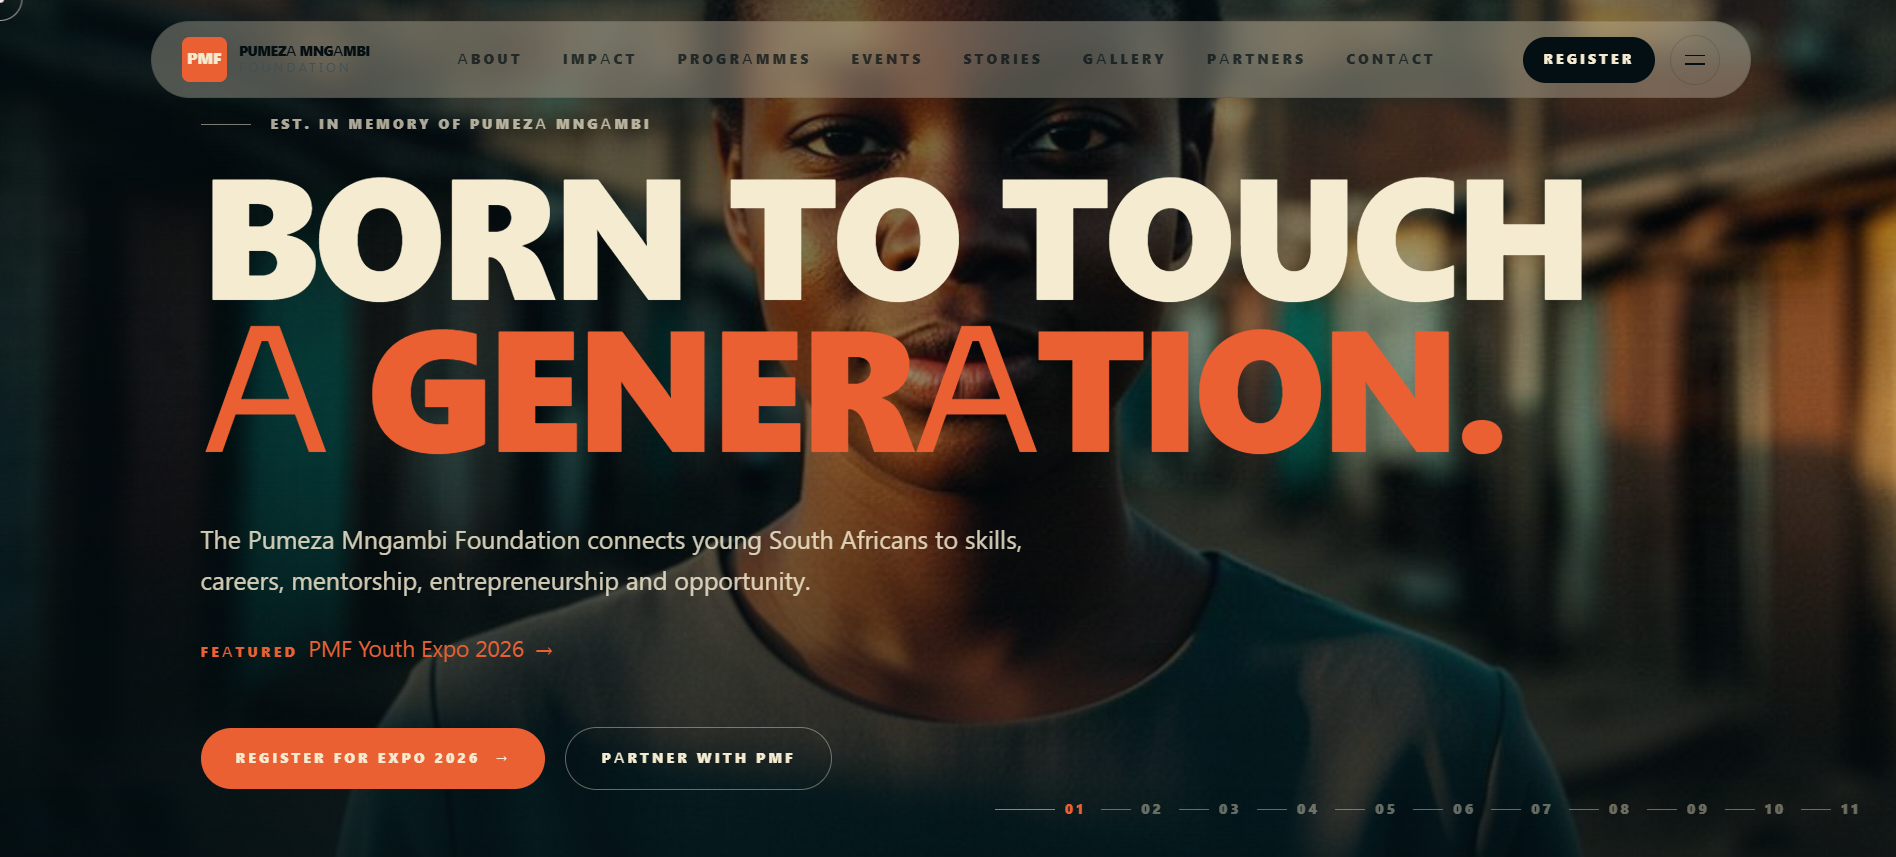
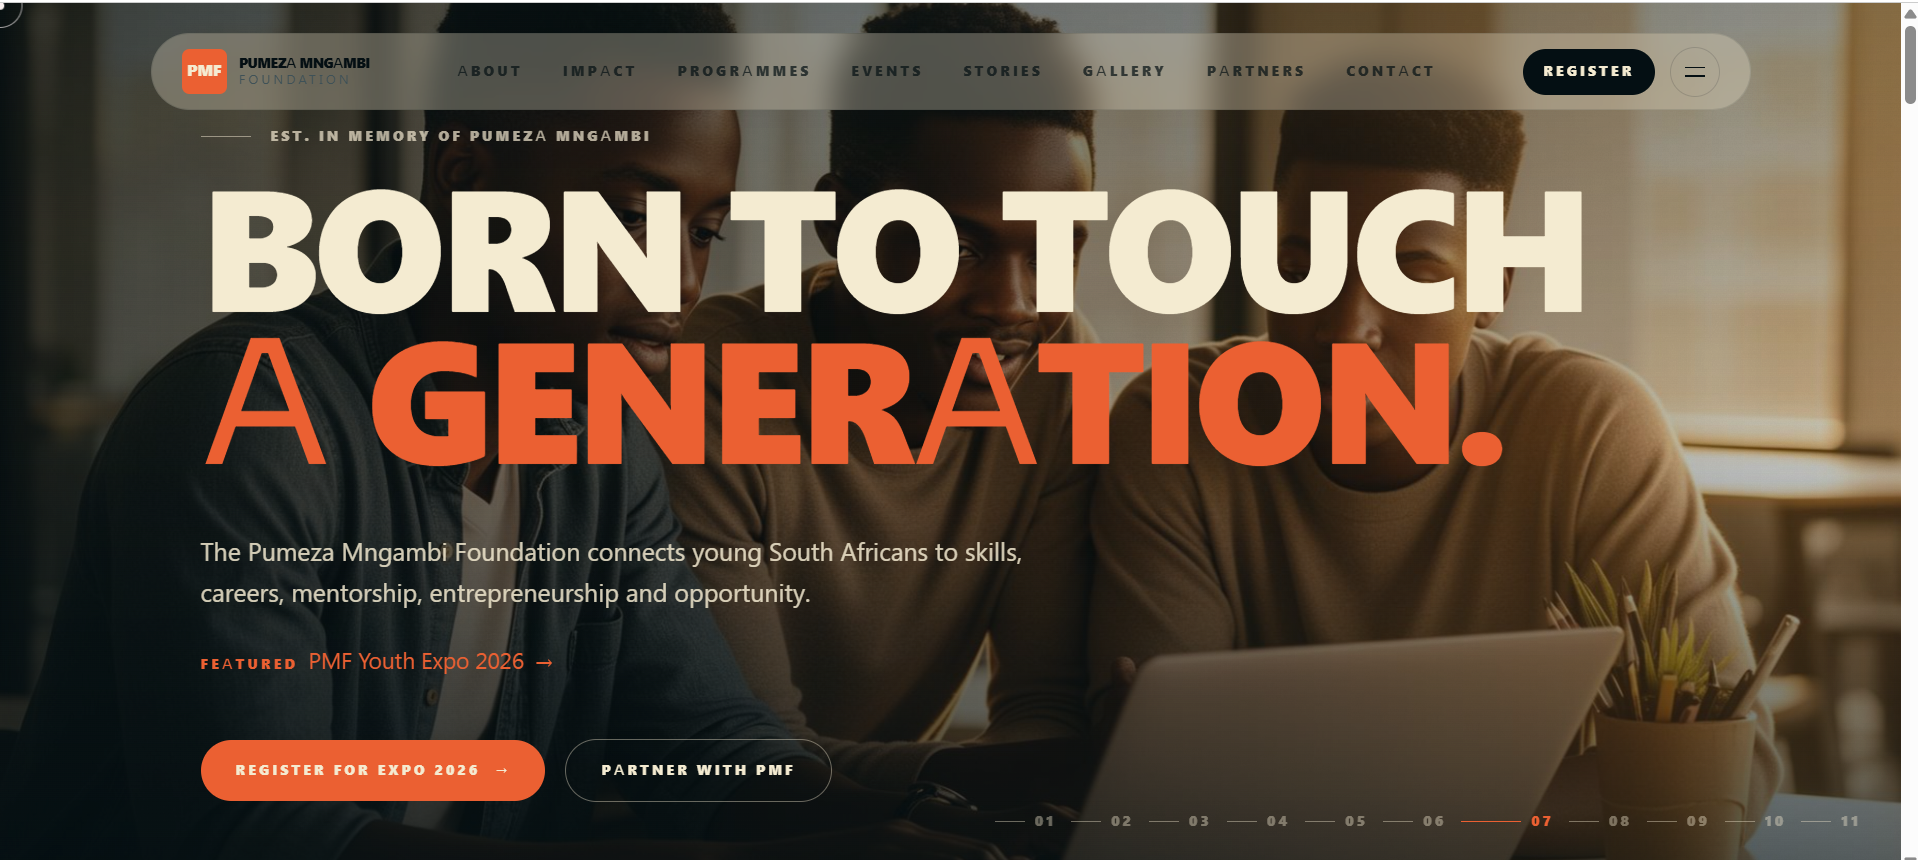
Update Election Sentinel to featured position and improve image display
Move Election Sentinel to position 1 with updated description, Angular 21, Leaflet mapping, Terraform. Reorder projects. Add consistent 16:9 aspect ratio and object-fit cover for all project images. Update live demo URL to effiemsa.co.za.

diff --git a/index.html b/index.html
@@ -141,36 +141,37 @@
         <div class="project-list">
           <article class="project-card glass border-gradient" data-reveal>
             <div class="project-media">
-              <div class="project-accent accent-emerald" aria-hidden="true"></div>
+              <div class="project-accent accent-amber" aria-hidden="true"></div>
               <img
-                src="images/africlimate-updated.png"
-                alt="AfriClimate Analytics Lake dashboard screenshot"
+                src="images/election-sentinel.png"
+                alt="election-sentinel"
                 loading="lazy"
               />
             </div>
             <div class="project-copy">
-              <p class="project-index">01 / Climate Intelligence Platform</p>
-              <h3>AfriClimate Analytics Lake</h3>
+              <p class="project-index">01 / Election Monitoring Platform</p>
+              <h3>Election Sentinel</h3>
               <p>
-                Production-ready climate analytics for Southern Africa. A
-                serverless AWS pipeline ingests CHIRPS data into S3, processes it
-                with Lambda, catalogs it in Glue, and serves a five-module Dash
-                application for drought, water, climate risk, community impact,
-                and carbon insights.
+                Real-time election monitoring platform for South Africa built
+                with Angular 21 and Leaflet mapping. Features secure AWS
+                Amplify authentication, interactive geospatial visualizations,
+                and CSV data ingestion. Infrastructure automated with Terraform
+                and deployed globally via S3 and CloudFront.
               </p>
               <div class="tag-list">
+                <span>Angular 21</span>
+                <span>TypeScript</span>
+                <span>Angular Material</span>
+                <span>Leaflet</span>
+                <span>RxJS</span>
+                <span>AWS Amplify</span>
+                <span>Terraform</span>
                 <span>Python</span>
-                <span>Dash</span>
-                <span>AWS Lambda</span>
-                <span>S3</span>
-                <span>Glue</span>
-                <span>Athena</span>
-                <span>Plotly</span>
               </div>
               <div class="project-actions">
                 <a
                   class="button button-solid"
-                  href="https://kutlwano-take-africlimate-analytics-eight.vercel.app/"
+                  href="https://effiemsa.co.za"
                   target="_blank"
                   rel="noreferrer"
                 >
@@ -178,7 +179,7 @@
                 </a>
                 <a
                   class="button button-glass"
-                  href="https://github.com/Kutlwano-Take/africlimate-analytics-lake"
+                  href="https://github.com/TshidiTech/election-sentinel"
                   target="_blank"
                   rel="noreferrer"
                 >
@@ -286,36 +287,36 @@
 
           <article class="project-card glass border-gradient" data-reveal>
             <div class="project-media">
-              <div class="project-accent accent-amber" aria-hidden="true"></div>
+              <div class="project-accent accent-emerald" aria-hidden="true"></div>
               <img
-                src="images/election-sentinel.png"
-                alt="election-sentinel"
+                src="images/africlimate-updated.png"
+                alt="AfriClimate Analytics Lake dashboard screenshot"
                 loading="lazy"
               />
             </div>
             <div class="project-copy">
-              <p class="project-index">04 / Election Monitoring Platform</p>
-              <h3>Election Sentinel</h3>
+              <p class="project-index">04 / Climate Intelligence Platform</p>
+              <h3>AfriClimate Analytics Lake</h3>
               <p>
-                A modern election monitoring platform built with Angular
-                and Angular Material. It uses AWS Amplify for secure
-                Cognito authentication and is deployed globally via
-                S3 and CloudFront for reliable, low-latency access.
+                Production-ready climate analytics for Southern Africa. A
+                serverless AWS pipeline ingests CHIRPS data into S3, processes it
+                with Lambda, catalogs it in Glue, and serves a five-module Dash
+                application for drought, water, climate risk, community impact,
+                and carbon insights.
               </p>
               <div class="tag-list">
-                <span>Angular</span>
-                <span>TypeScript</span>
-                <span>Angular Material</span>
-                <span>RxJS</span>
-                <span>AWS Amplify</span>
-                <span>Cognito</span>
+                <span>Python</span>
+                <span>Dash</span>
+                <span>AWS Lambda</span>
                 <span>S3</span>
-                <span>CloudFront</span>
+                <span>Glue</span>
+                <span>Athena</span>
+                <span>Plotly</span>
               </div>
               <div class="project-actions">
                 <a
                   class="button button-solid"
-                  href="https://d2kjgnhnox9hb.cloudfront.net/"
+                  href="https://kutlwano-take-africlimate-analytics-eight.vercel.app/"
                   target="_blank"
                   rel="noreferrer"
                 >
@@ -323,7 +324,7 @@
                 </a>
                 <a
                   class="button button-glass"
-                  href="https://github.com/TshidiTech/election-sentinel"
+                  href="https://github.com/Kutlwano-Take/africlimate-analytics-lake"
                   target="_blank"
                   rel="noreferrer"
                 >

diff --git a/style.css b/style.css
@@ -529,19 +529,36 @@ textarea {
   overflow: hidden;
   border-radius: calc(var(--radius-lg) - 0.45rem);
   background: var(--background-soft);
+  aspect-ratio: 16 / 9;
+  display: flex;
+  align-items: center;
+  justify-content: center;
 }
 
 .project-media img {
   width: 100%;
-  height: auto;
+  height: 100%;
   display: block;
   position: relative;
   z-index: 1;
+  object-fit: cover;
+  object-position: center;
   transition: transform 1.1s var(--ease);
 }
 
 .project-card:hover .project-media img {
   transform: scale(1.04);
+}
+
+/* Specific positioning for Election Sentinel image */
+.project-media img[src*="election-sentinel"] {
+  object-position: center top;
+}
+
+/* Specific styling for TshidiAI image */
+.project-media img[src*="tshidi-ai-invoice-tool"] {
+  object-fit: cover;
+  object-position: center top;
 }
 
 .project-accent {
